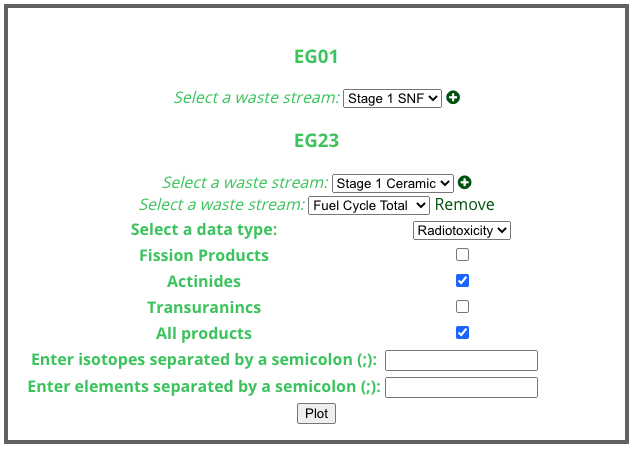
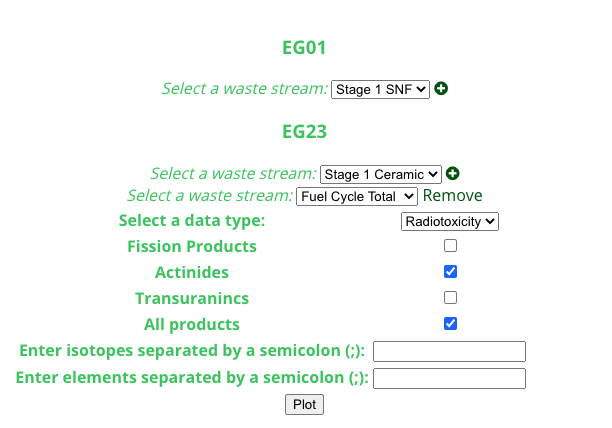
small change

diff --git a/index.md b/index.md
@@ -20,7 +20,7 @@ A visualization tool called `FCP` (short for Fuel Cycle Plotter) has been develo
 By virtue of having multiple fuel cycles to study, possible use cases for `FCP` extend beyond providing input parameters for repository performance assessment. Using the tool, up to three different fuel cycles can be selected at a time for comparison. In the event that a fuel cycle produces multiple waste streams (e.g. an off-gas stream from aqueous separations such as PUREX or a ceramic waste stream from electrochemical separations), the user also has the option to make comparisons between individual streams. For each waste form stream selected, the user has the option to plot the selected waste characteristic for individual isotopes or elements, or select from several different overarching nuclide species (e.g. actinides, fission products, transuranics). The `FCP` waste stream selection options are shown in Figure 1. In this way, making comparisons between and among fuel cycles on the basis of waste production becomes a streamlined process, enabling quick and easy analysis and well-informed decision-making.
 
 <figure>
-    <img src="./assets/images/cart_form.png" alt="Figure 1"/>
+    <img class="diagram" src="./assets/images/cart_form.png" alt="Figure 1"/>
     <figcaption>Figure 1. Screen capture of a form in <code>FCP</code> which allows the user to select the waste streams and waste characteristics that they would like to see plotted. Two evaluation groups (EGs), EG01 and EG23, have been selected for comparison here. An EG is a collection of fuel cycle options with similar fundamental physics characteristics, e.g., a thermal reactor with a critical irradiation environment. Each EG has an associated Analysis Example (AE) which further specifies fuel type(s) and reactor technology(s) so that quantitative data could be generated to inform further analysis <a href="#section-5-references">[2]</a>. The AE for EG01 only has one waste stream, so in this instance the stream called “Stage 1 SNF” is equivalent to the fuel cycle total. The AE for EG23 has multiple waste streams due to the reprocessing methods used in this EG. In this case, the user may select one or more waste streams at a time for analysis. There are four characteristics of the waste stream data available for plotting: radiotoxicity, radioactivity, heat generation, and waste composition. Finally, there are a number of different ways to select the specific nuclides which will be displayed in the <code>FCP</code>-generated plot, from as specific as a single isotope to as broad as the sum of all products in the waste stream.</figcaption>
 </figure>
 
